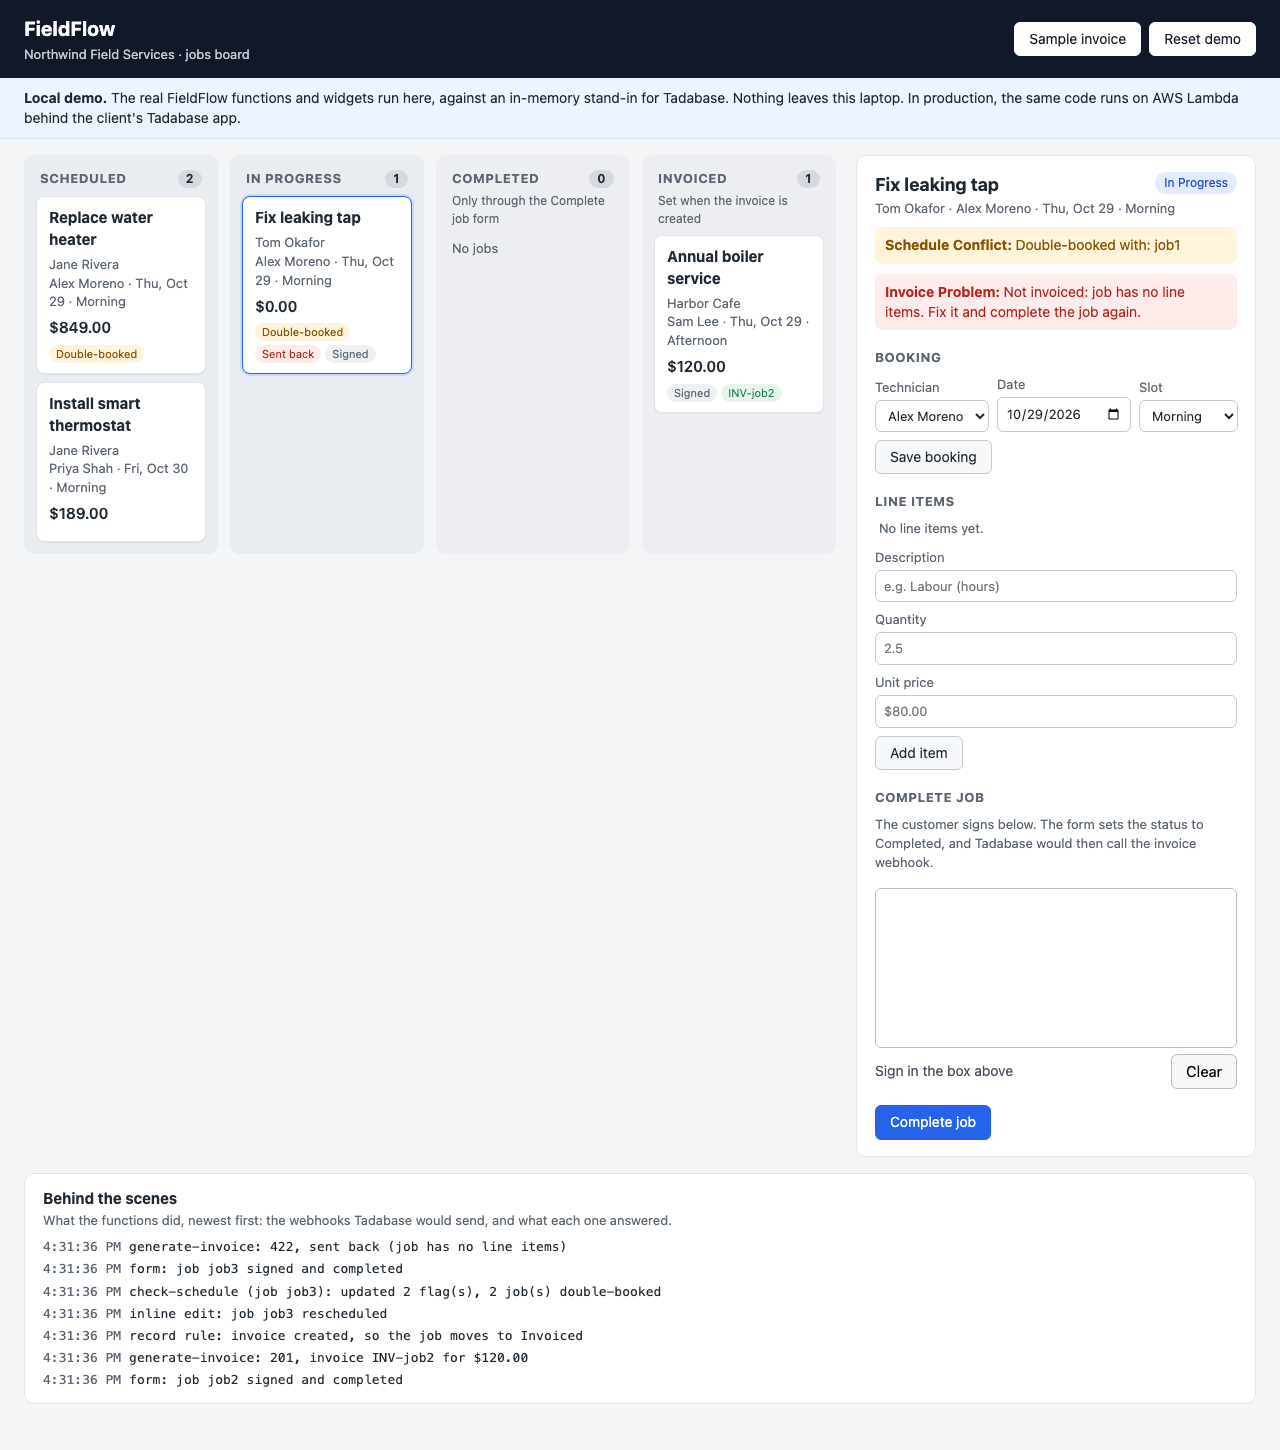
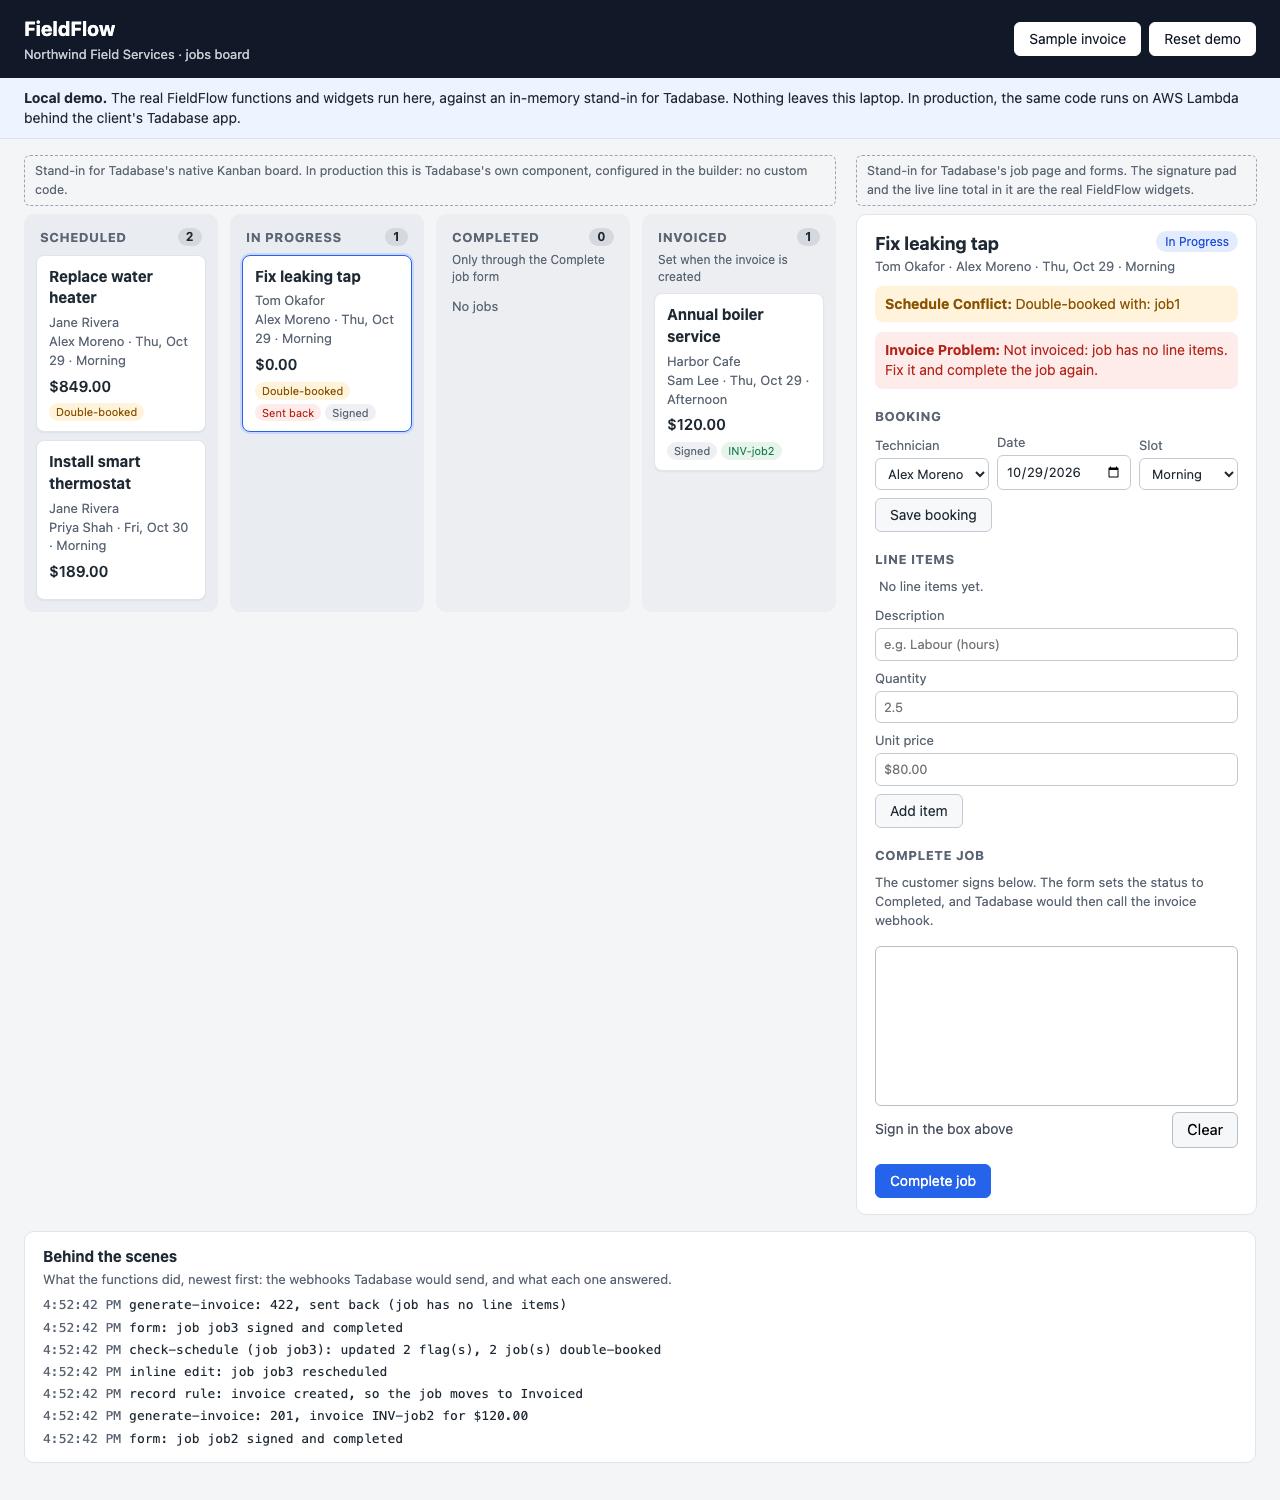
docs(widgets): label the demo's board as a stand-in for Tadabase's native Kanban
The local demo hand-builds a simple board and job page because it runs
without Tadabase. Notes on the page, a retaken screenshot and the
captions in the README and overview now say so: in production the board
is Tadabase's own Kanban component, with no custom code, and only the
widgets and the functions are FieldFlow code.

diff --git a/demo/app.html b/demo/app.html
@@ -29,12 +29,20 @@
   <p id="toast" class="toast" role="status" aria-live="polite" hidden></p>
 
   <main class="layout">
-    <section class="board" id="board" aria-label="Jobs board">
-      <p class="empty-state">Loading jobs…</p>
-    </section>
-    <aside class="panel" id="panel" aria-label="Job details">
-      <p class="empty-state">Select a job to see its details, add items, or complete it.</p>
-    </aside>
+    <div class="board-wrap">
+      <p class="stand-in">Stand-in for Tadabase's native Kanban board. In production this is
+        Tadabase's own component, configured in the builder: no custom code.</p>
+      <section class="board" id="board" aria-label="Jobs board">
+        <p class="empty-state">Loading jobs…</p>
+      </section>
+    </div>
+    <div class="panel-wrap">
+      <p class="stand-in">Stand-in for Tadabase's job page and forms. The signature pad and the live
+        line total in it are the real FieldFlow widgets.</p>
+      <aside class="panel" id="panel" aria-label="Job details">
+        <p class="empty-state">Select a job to see its details, add items, or complete it.</p>
+      </aside>
+    </div>
   </main>
 
   <section class="log" aria-label="Behind the scenes">

diff --git a/demo/app.css b/demo/app.css
@@ -121,13 +121,25 @@ body {
 .badge.warn { background: var(--warn-bg); color: var(--warn); }
 .badge.danger { background: var(--danger-bg); color: var(--danger); }
 
+.board-wrap, .panel-wrap { display: grid; gap: 8px; align-content: start; min-width: 0; }
+.panel-wrap { position: sticky; top: 16px; }
+
+/* Says which parts of the page stand in for Tadabase's own screens. */
+.stand-in {
+  margin: 0;
+  padding: 6px 10px;
+  border: 1px dashed #9aa5b4;
+  border-radius: 6px;
+  font-size: 12.5px;
+  color: var(--muted);
+  background: transparent;
+}
+
 .panel {
   background: var(--surface);
   border: 1px solid var(--line);
   border-radius: var(--radius);
   padding: 16px 18px;
-  position: sticky;
-  top: 16px;
 }
 .panel-head { display: flex; justify-content: space-between; align-items: start; gap: 8px; }
 .panel h2 { margin: 0; font-size: 18px; }

diff --git a/README.md b/README.md
@@ -45,8 +45,11 @@ no cost, and nothing leaves your machine.
 
 ![The FieldFlow demo: a jobs board with Scheduled, In Progress, Completed and Invoiced columns. A job that was double-booked and then completed without line items is open in the side panel, showing its Schedule Conflict and Invoice Problem, the signature pad, and below, the log of webhooks and what each function answered.](docs/screenshots/demo-board.png)
 
-*Above: Alex is double-booked on Thursday morning (flagged by `check-schedule`), the job without
-line items was sent back by `generate-invoice`, and Harbor Cafe's job was invoiced. The log at the
+*Above: the board and the job page are the demo's stand-ins for Tadabase's own screens (in
+production the board is Tadabase's native Kanban, with no custom code); the signature pad, the line
+total and everything in the log are real FieldFlow code. Alex is double-booked on Thursday morning
+(flagged by `check-schedule`), the job without line items was sent back by `generate-invoice`, and
+Harbor Cafe's job was invoiced. The log at the
 bottom shows each webhook and what the function answered. Below: the PDF that `generate-invoice`
 rendered for it, opened through its signed link.*
 

diff --git a/docs/overview.md b/docs/overview.md
@@ -29,8 +29,10 @@ connection is simulated. Anyone with the repository can run it with `npm install
 
 ![The FieldFlow demo: a jobs board with Scheduled, In Progress, Completed and Invoiced columns. An open job shows a Schedule Conflict and an Invoice Problem, the signature pad, and a log of webhooks and what each function answered.](screenshots/demo-board.png)
 
-*A double booking flagged, a job sent back for missing line items, and an invoiced job. The log at
-the bottom shows each webhook and what the function answered.*
+*The board and the job page are the demo's stand-ins for Tadabase's own screens: in production the
+board is Tadabase's native Kanban, with no custom code. The signature pad, the line total and
+everything in the log are real FieldFlow code. Shown: a double booking flagged, a job sent back for
+missing line items, and an invoiced job, with each webhook and what the function answered.*
 
 <img src="screenshots/demo-invoice.png" alt="The generated invoice PDF for Harbor Cafe: one Boiler service line at $120.00, total $120.00." width="480">
 
